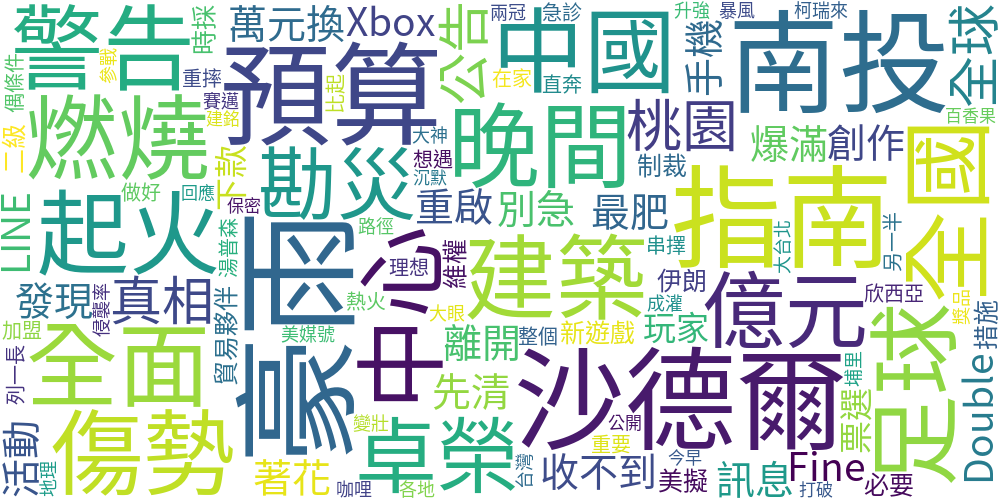
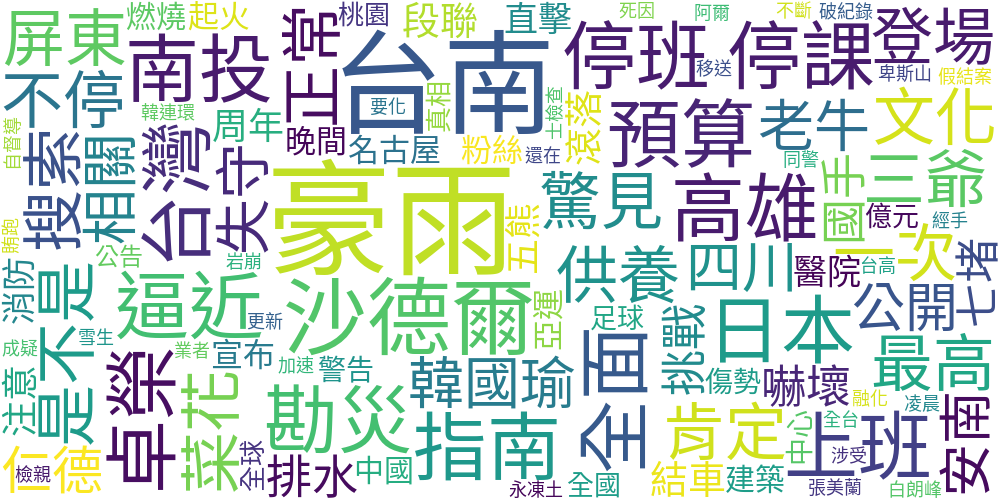
update source code - 2026 0825 0215

diff --git a/news_scraper.py b/news_scraper.py
@@ -1,12 +1,10 @@
 import logging
 import json
 import sqlite3
-import time
 from datetime import datetime
 import requests
 from bs4 import BeautifulSoup
 import pandas as pd
-import schedule
 
 # 設定 Logging 紀錄
 logging.basicConfig(
@@ -14,10 +12,11 @@ logging.basicConfig(
     format='%(asctime)s - [%(levelname)s] - %(message)s'
 )
 
+
 class NewsPipeline:
     """
-    ETtoday 新聞自動化 ETL 管道
-    包含：爬取、去重、SQLite 寫入、歷史清理、CSV/JSON 匯出
+    ETtoday 新聞自動化 ETL 管道 (GitHub Actions / 單次執行版)
+    包含：爬取、去重、SQLite 寫入、維持最新 N 筆資料、CSV/JSON 匯出
     """
 
     def __init__(self, db_path: str = "news_database.db", max_keep_records: int = 100):
@@ -30,7 +29,7 @@ class NewsPipeline:
             )
         }
         self.db_path = db_path
-        self.max_keep_records = max_keep_records  # 資料庫最多保留的新聞筆數
+        self.max_keep_records = max_keep_records  # 資料庫最多保留的新聞筆數 (設為 100 筆)
         self._init_db()
 
     def _init_db(self):
@@ -77,7 +76,8 @@ class NewsPipeline:
                 title_tag = item.select_one('a')
 
                 title = title_tag.text.strip()
-                link = "https://www.ettoday.net" + title_tag['href'] if title_tag['href'].startswith('/') else title_tag['href']
+                link = "https://www.ettoday.net" + title_tag['href'] if title_tag['href'].startswith('/') else \
+                title_tag['href']
 
                 news_data = {
                     "time": time_str,
@@ -94,7 +94,7 @@ class NewsPipeline:
         return news_list
 
     def save_to_db(self, news_list: list[dict]) -> int:
-        """將資料寫入 SQLite 並去除重複，最後清理舊資料"""
+        """將資料寫入 SQLite 並去除重複，最後強制保留最新 N 筆 (預設 100 筆)"""
         if not news_list:
             return 0
 
@@ -112,7 +112,7 @@ class NewsPipeline:
                 if cursor.rowcount > 0:
                     new_inserted += 1
 
-            # 2. 保留最新 N 筆，刪除其餘舊資料
+            # 2. 保留最新 N 筆，刪除超過 N 筆的舊資料
             cursor.execute('''
                 DELETE FROM news
                 WHERE rowid NOT IN (
@@ -122,7 +122,7 @@ class NewsPipeline:
 
             conn.commit()
 
-        logging.info(f"SQLite 更新完畢：新增 {new_inserted} 筆資料，舊資料已清理，目前資料庫維持最新 {self.max_keep_records} 筆。")
+        logging.info(f"SQLite 更新完畢：新增 {new_inserted} 筆資料，資料庫維持最新 {self.max_keep_records} 筆上限。")
         return new_inserted
 
     def export_files(self):
@@ -148,10 +148,6 @@ class NewsPipeline:
 
         logging.info(f"已匯出檔案: {csv_filename} 與 {json_filename}")
 
-        # 終端機預覽輸出
-        print(f"\n[即時更新 - {datetime.now().strftime('%H:%M:%S')}] 資料庫最新 {len(df)} 筆內容預覽：")
-        print(df.head(5).to_string(index=False))
-
     def run_pipeline(self):
         """執行一次單次完整任務 (ETL)"""
         logging.info(">>> 開始執行新聞自動化抓取任務 <<<")
@@ -160,24 +156,12 @@ class NewsPipeline:
             news_list = self.parse_news(html)
             self.save_to_db(news_list)
             self.export_files()
+        logging.info(">>> 任務執行完畢，正常退出程式 <<<")
 
 
 if __name__ == "__main__":
-    pipeline = NewsPipeline(max_keep_records=50)
+    # 設定資料庫最多保留最新 100 筆資料
+    pipeline = NewsPipeline(max_keep_records=100)
 
-    # 1. 啟動時先立即執行第 1 次抓取
+    # 執行一次單次任務後即刻結束，無須常駐迴圈
     pipeline.run_pipeline()
-
-    # 2. 設定每 3 分鐘自動輪詢執行一次
-    schedule.clear()
-    schedule.every(3).minutes.do(pipeline.run_pipeline)
-
-    print("\n⏰ 定時排程已啟動！每 3 分鐘會自動抓取一次... (按 Ctrl+C 可停止程式)")
-
-    # 3. 常駐監聽排程（PyCharm 本地環境建議寫成無窮迴圈）
-    try:
-        while True:
-            schedule.run_pending()
-            time.sleep(1)
-    except KeyboardInterrupt:
-        print("\n停用排程，程式已安全結束。")
